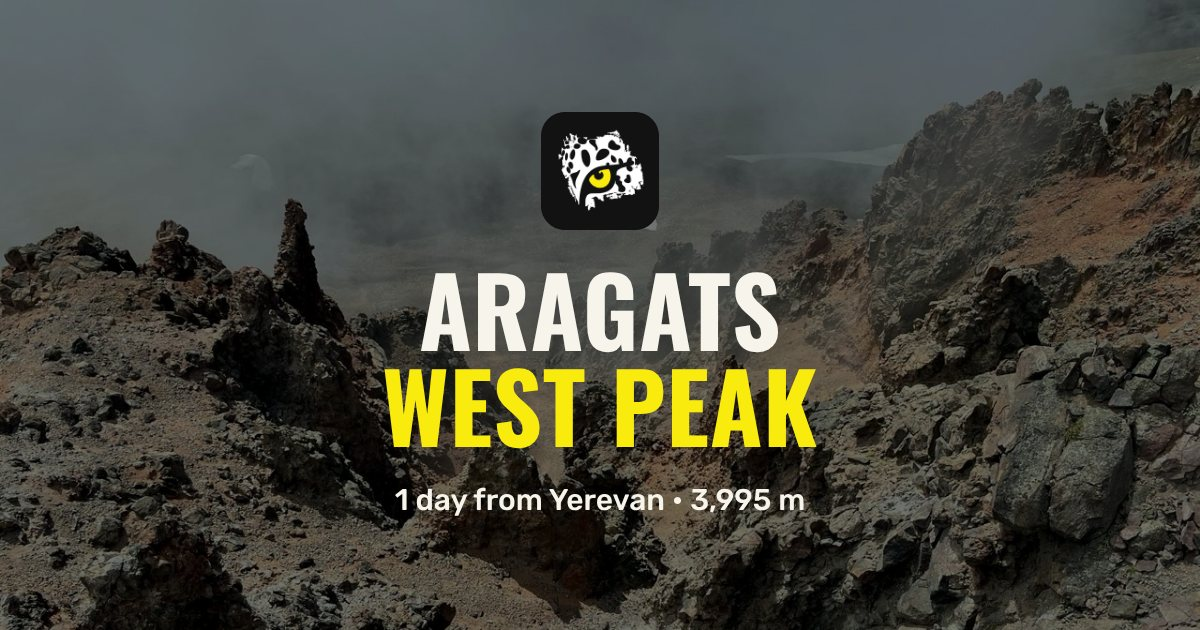
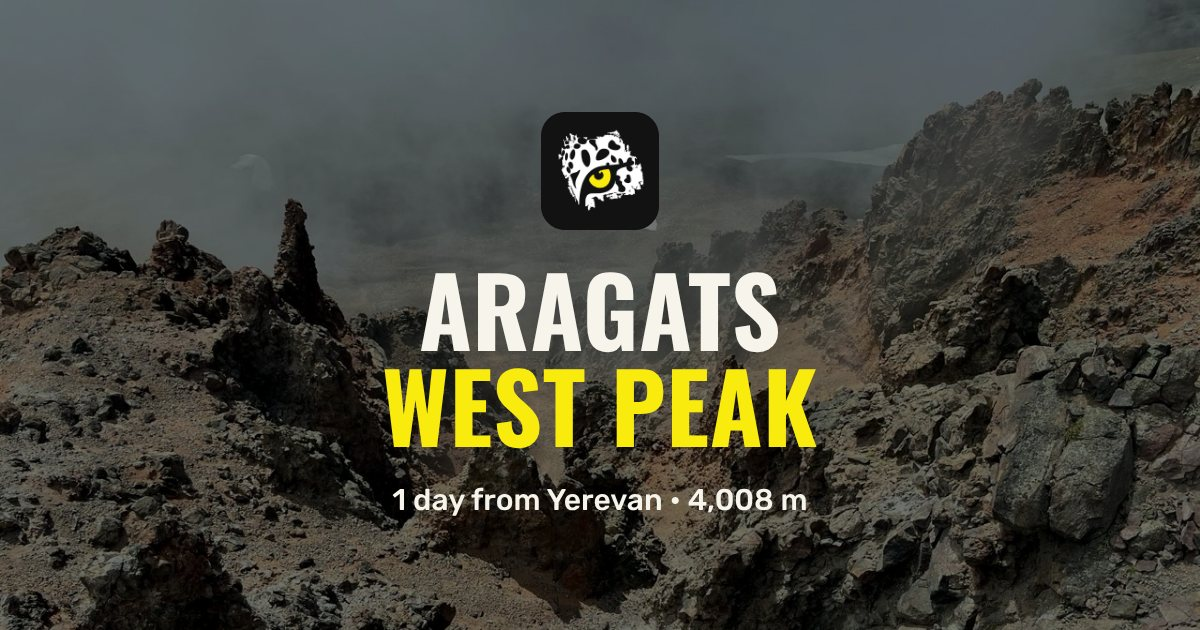
Арагац Западная: высота 4 008 м (как во всех материалах White Irbis), заголовки и карточки обновлены
Claude-Session: https://claude.ai/code/session_01UELaXKaEtKLHJMR8bpMREh

Changed region(s): [[0.3083, 0.7841, 0.6783, 0.8143]]

diff --git a/aragats-zapad/index.html b/aragats-zapad/index.html
@@ -7,7 +7,7 @@
 <meta property="og:type" content="website">
 <meta property="og:site_name" content="White Irbis">
 <meta property="og:title" content="Арагац, Западная вершина — White Irbis">
-<meta property="og:description" content="Почти четыре тысячи за один день: от озера Кари через седловину и крутую осыпь на Западную вершину 3 995 м.">
+<meta property="og:description" content="Четыре тысячи за один день: от озера Кари через седловину и крутую осыпь на Западную вершину 4 008 м.">
 <meta property="og:url" content="https://whiteirbis.am/aragats-zapad/">
 <meta property="og:image" content="https://whiteirbis.am/img/og-square.jpg">
 <meta property="og:image:width" content="1200">
@@ -18,7 +18,7 @@
 <link rel="apple-touch-icon" href="../dolmatur/img/apple-touch-icon.png">
 <meta name="apple-mobile-web-app-title" content="Арагац Западная">
 <meta name="theme-color" content="#121212">
-<meta name="description" content="Восхождение на Западную вершину Арагаца, 3 995 м — вторую по высоте в Армении. 1 день из Еревана, от озера Кари через седловину, на обратном пути крепость Амберд.">
+<meta name="description" content="Восхождение на Западную вершину Арагаца, 4 008 м — вторую по высоте в Армении. 1 день из Еревана, от озера Кари через седловину, на обратном пути крепость Амберд.">
 <link rel="preconnect" href="https://fonts.googleapis.com">
 <link rel="preconnect" href="https://fonts.gstatic.com" crossorigin>
 <link rel="stylesheet" href="https://fonts.googleapis.com/css2?family=Oswald:wght@300;400;500;600;700&family=Rubik:wght@400;500;600&family=Noto+Sans+Armenian:wdth,wght@62.5..100,400..700&display=swap">
@@ -221,13 +221,13 @@ details p{margin-top:10px;color:var(--muted);max-width:62ch}
   <div class="wrap">
     <span class="alt"><span lang="ru">Из Еревана · 1 день · июль — сентябрь</span><span lang="en">From Yerevan · 1 day · July — September</span><span lang="hy">Երևանից · 1 օր · հուլիս — սեպտեմբեր</span></span>
     <h1><span lang="ru">Арагац<br><em>Западная</em></span><span lang="en">Aragats<br><em>West</em></span><span lang="hy">Արագած<br><em>Արևմտյան</em></span></h1>
-    <p class="sub"><span lang="ru">3 995 метров — вторая по высоте вершина Армении. От озера Кари уходим к седловине между Южной и Западной, дальше крутой подъём по осыпи — и вершина, куда добираются немногие. По дороге домой — крепость Амберд.</span><span lang="en">3,995 metres — the second-highest summit in Armenia. From Lake Kari we head to the saddle between the South and West peaks, then a steep climb up the scree to a summit few people reach. On the way home — Amberd fortress.</span><span lang="hy">3 995 մետր՝ Հայաստանի երկրորդ ամենաբարձր գագաթը։ Քարի լճից գնում ենք դեպի Հարավային և Արևմտյան գագաթների միջև թամբը, հետո զառիթափ վերելք քարաթափով՝ դեպի գագաթ, որտեղ քչերն են հասնում։ Տուն վերադառնալիս՝ Ամբերդ ամրոցը։</span></p>
+    <p class="sub"><span lang="ru">4 008 метров — вторая по высоте вершина Армении. От озера Кари уходим к седловине между Южной и Западной, дальше крутой подъём по осыпи — и вершина, куда добираются немногие. По дороге домой — крепость Амберд.</span><span lang="en">4,008 metres — the second-highest summit in Armenia. From Lake Kari we head to the saddle between the South and West peaks, then a steep climb up the scree to a summit few people reach. On the way home — Amberd fortress.</span><span lang="hy">4 008 մետր՝ Հայաստանի երկրորդ ամենաբարձր գագաթը։ Քարի լճից գնում ենք դեպի Հարավային և Արևմտյան գագաթների միջև թամբը, հետո զառիթափ վերելք քարաթափով՝ դեպի գագաթ, որտեղ քչերն են հասնում։ Տուն վերադառնալիս՝ Ամբերդ ամրոցը։</span></p>
     <div class="row"><a class="cta" href="#price"><span lang="ru">Хочу на Западную</span><span lang="en">I want the West peak</span><span lang="hy">Ուզում եմ Արևմտյան</span></a><span class="price-chip"><span lang="ru">12 600 ₽</span><span lang="en">€137</span><span lang="hy">55 000 ֏</span><small lang="ru">с человека</small><small lang="en">per person</small><small lang="hy">մեկ անձի համար</small></span></div>
   </div>
 </section>
 
 <section class="facts"><div class="wrap"><dl>
-  <div><dt><span lang="ru">Вершина</span><span lang="en">Summit</span><span lang="hy">Գագաթ</span></dt><dd><span lang="ru">3 995 м</span><span lang="en">3,995 m</span><span lang="hy">3 995 մ</span></dd></div>
+  <div><dt><span lang="ru">Вершина</span><span lang="en">Summit</span><span lang="hy">Գագաթ</span></dt><dd><span lang="ru">4 008 м</span><span lang="en">4,008 m</span><span lang="hy">4 008 մ</span></dd></div>
   <div><dt><span lang="ru">Старт</span><span lang="en">Start</span><span lang="hy">Մեկնարկ</span></dt><dd><span lang="ru">Озеро Кари, 3 200 м</span><span lang="en">Lake Kari, 3,200 m</span><span lang="hy">Քարի լիճ, 3 200 մ</span></dd></div>
   <div><dt><span lang="ru">Сезон</span><span lang="en">Season</span><span lang="hy">Սեզոն</span></dt><dd><span lang="ru">Июль — сентябрь</span><span lang="en">July — September</span><span lang="hy">Հուլիս — սեպտեմբեր</span></dd></div>
   <div><dt><span lang="ru">Группа</span><span lang="en">Group</span><span lang="hy">Խումբ</span></dt><dd><span lang="ru">От 3 человек</span><span lang="en">3 or more</span><span lang="hy">3 հոգուց</span></dd></div>
@@ -235,7 +235,7 @@ details p{margin-top:10px;color:var(--muted);max-width:62ch}
 
 <section id="program"><div class="wrap">
   <span class="eyebrow"><span lang="ru">Программа</span><span lang="en">Programme</span><span lang="hy">Ծրագիր</span></span>
-  <h2 class="h2"><span lang="ru">Один день — без пяти метров четыре тысячи</span><span lang="en">One day — five metres short of four thousand</span><span lang="hy">Մեկ օր՝ չորս հազարից հինգ մետր պակաս</span></h2>
+  <h2 class="h2"><span lang="ru">Один день — четыре тысячи</span><span lang="en">One day — four thousand</span><span lang="hy">Մեկ օր՝ չորս հազար</span></h2>
   <p class="lead"><span lang="ru">Арагац — потухший вулкан и самая высокая гора современной Армении: четыре его вершины стоят по краю кратера. Западная — вторая по высоте и самая крутая на подходе: тропы почти нет, последний час идём по осыпи.</span><span lang="en">Aragats is an extinct volcano and the highest mountain of modern Armenia: its four peaks stand on the crater rim. The West peak is the second highest and the steepest to approach: there is hardly a trail, and the last hour is on scree.</span><span lang="hy">Արագածը հանգած հրաբուխ է և ժամանակակից Հայաստանի ամենաբարձր լեռը․ նրա չորս գագաթները կանգնած են խառնարանի եզրին։ Արևմտյանը բարձրությամբ երկրորդն է և ամենազառիթափը մոտեցման վրա․ արահետ գրեթե չկա, վերջին ժամը քարաթափով ենք գնում։</span></p>
   <div class="days">
     <article class="day">
@@ -262,7 +262,7 @@ details p{margin-top:10px;color:var(--muted);max-width:62ch}
         <ul class="plan">
           <li><b>4</b><span><span lang="ru">От озера Кари к седловине между Южной и Западной вершинами, около 3 800 м</span><span lang="en">From Lake Kari to the saddle between the South and West peaks, about 3,800 m</span><span lang="hy">Քարի լճից դեպի Հարավային և Արևմտյան գագաթների միջև թամբը՝ մոտ 3 800 մ</span></span></li>
           <li><b>5</b><span><span lang="ru">Крутой подъём по сыпучему склону без тропы — самый трудный кусок дня, идём плотной группой и смотрим под ноги</span><span lang="en">A steep climb up loose ground with no trail — the hardest part of the day; we keep the group tight and watch our step</span><span lang="hy">Զառիթափ վերելք փխրուն լանջով առանց արահետի՝ օրվա ամենադժվար հատվածը, գնում ենք սերտ խմբով և նայում ոտքերի տակ</span></span></li>
-          <li><b>6</b><span><span lang="ru">Вершина 3 995 м — примерно 4 часа от озера. Обед-ланчбокс, фото, под ногами весь кратер со снежниками</span><span lang="en">Summit, 3,995 m — about 4 hours from the lake. Lunch box, photos, the whole crater and its snowfields at your feet</span><span lang="hy">Գագաթ, 3 995 մ՝ լճից մոտ 4 ժամ։ Ճաշ-լանչբոքս, լուսանկարներ, ոտքերի տակ ամբողջ խառնարանը ձնադաշտերով</span></span></li>
+          <li><b>6</b><span><span lang="ru">Вершина 4 008 м — примерно 4 часа от озера. Обед-ланчбокс, фото, под ногами весь кратер со снежниками</span><span lang="en">Summit, 4,008 m — about 4 hours from the lake. Lunch box, photos, the whole crater and its snowfields at your feet</span><span lang="hy">Գագաթ, 4 008 մ՝ լճից մոտ 4 ժամ։ Ճաշ-լանչբոքս, լուսանկարներ, ոտքերի տակ ամբողջ խառնարանը ձնադաշտերով</span></span></li>
         </ul>
       </div>
     </article>
@@ -330,7 +330,7 @@ details p{margin-top:10px;color:var(--muted);max-width:62ch}
 
 <section id="who"><div class="wrap">
   <span class="eyebrow"><span lang="ru">Для кого</span><span lang="en">Who it's for</span><span lang="hy">Ում համար է</span></span>
-  <h2 class="h2"><span lang="ru">Почти четыре тысячи</span><span lang="en">Almost four thousand</span><span lang="hy">Գրեթե չորս հազար</span></h2>
+  <h2 class="h2"><span lang="ru">Четыре тысячи без толпы</span><span lang="en">Four thousand without the crowds</span><span lang="hy">Չորս հազար՝ առանց ամբոխի</span></h2>
   <div class="who">
     <div><h3><span lang="ru">Были на Южной</span><span lang="en">Done the South peak</span><span lang="hy">Եղել եք Հարավայինում</span></h3><p><span lang="ru">Западная — следующий шаг: выше, круче и почти без людей.</span><span lang="en">The West peak is the next step: higher, steeper and almost empty.</span><span lang="hy">Արևմտյանը հաջորդ քայլն է՝ ավելի բարձր, ավելի զառիթափ և գրեթե առանց մարդկանց։</span></p></div>
     <div><h3><span lang="ru">Любите дикие места</span><span lang="en">Love wild places</span><span lang="hy">Սիրում եք վայրի վայրեր</span></h3><p><span lang="ru">Без тропы и толп — только кратер, снежники и ветер.</span><span lang="en">No trail, no crowds — just the crater, the snowfields and the wind.</span><span lang="hy">Առանց արահետի և ամբոխի՝ միայն խառնարան, ձնադաշտեր և քամի։</span></p></div>
@@ -353,7 +353,7 @@ details p{margin-top:10px;color:var(--muted);max-width:62ch}
   <span class="eyebrow"><span lang="ru">Вопросы</span><span lang="en">Questions</span><span lang="hy">Հարցեր</span></span>
   <h2 class="h2"><span lang="ru">Частые вопросы</span><span lang="en">Frequently asked</span><span lang="hy">Հաճախ տրվող հարցեր</span></h2>
   <div class="faq-list">
-      <details open><summary><span lang="ru">Чем Западная отличается от Южной?</span><span lang="en">How is the West peak different from the South?</span><span lang="hy">Ինչով է Արևմտյանը տարբերվում Հարավայինից</span></summary><p><span lang="ru">Южная (3 879 м) — самый простой путь на Арагац, по широкому склону. Западная (3 995 м) выше на 116 м, и последний подъём к ней — крутая осыпь без тропы. Если вы впервые на высоте, начните с Южной.</span><span lang="en">The South peak (3,879 m) is the easiest way up Aragats, on a broad slope. The West peak (3,995 m) is 116 m higher, and the final climb is steep scree with no trail. If altitude is new to you, start with the South.</span><span lang="hy">Հարավայինը (3 879 մ) Արագածի ամենահեշտ ճանապարհն է՝ լայն լանջով։ Արևմտյանը (3 995 մ) 116 մ ավելի բարձր է, և վերջին վերելքը զառիթափ քարաթափ է առանց արահետի։ Եթե առաջին անգամ եք բարձրության վրա, սկսեք Հարավայինից։</span></p></details>
+      <details open><summary><span lang="ru">Чем Западная отличается от Южной?</span><span lang="en">How is the West peak different from the South?</span><span lang="hy">Ինչով է Արևմտյանը տարբերվում Հարավայինից</span></summary><p><span lang="ru">Южная (3 879 м) — самый простой путь на Арагац, по широкому склону. Западная (4 008 м) выше на 129 м, и последний подъём к ней — крутая осыпь без тропы. Если вы впервые на высоте, начните с Южной.</span><span lang="en">The South peak (3,879 m) is the easiest way up Aragats, on a broad slope. The West peak (4,008 m) is 129 m higher, and the final climb is steep scree with no trail. If altitude is new to you, start with the South.</span><span lang="hy">Հարավայինը (3 879 մ) Արագածի ամենահեշտ ճանապարհն է՝ լայն լանջով։ Արևմտյանը (4 008 մ) 129 մ ավելի բարձր է, և վերջին վերելքը զառիթափ քարաթափ է առանց արահետի։ Եթե առաջին անգամ եք բարձրության վրա, սկսեք Հարավայինից։</span></p></details>
       <details><summary><span lang="ru">Можно без опыта?</span><span lang="en">Can I go without experience?</span><span lang="hy">Կարելի՞ է առանց փորձի</span></summary><p><span lang="ru">Альпинистский опыт не нужен, но нужна выносливость. Если сомневаетесь, напишите нам — подскажем, с чего начать.</span><span lang="en">You don't need mountaineering experience, but you do need stamina. If in doubt, message us and we'll suggest where to start.</span><span lang="hy">Ալպինիստական փորձ պետք չէ, բայց պետք է տոկունություն։ Եթե կասկածում եք, գրեք մեզ՝ կառաջարկենք, թե որտեղից սկսել։</span></p></details>
       <details><summary><span lang="ru">Что если погода испортится?</span><span lang="en">What if the weather turns bad?</span><span lang="hy">Իսկ եթե եղանակը վատանա</span></summary><p><span lang="ru">Решение принимает гид. Если выход отменяем до старта, переносим на другую дату.</span><span lang="en">The guide makes the call. If we cancel before the start, we move you to another date.</span><span lang="hy">Որոշումը կայացնում է գիդը։ Եթե ելքը չեղարկում ենք մինչև մեկնարկը, տեղափոխում ենք այլ ամսաթվի։</span></p></details>
       <details><summary><span lang="ru">Когда лучше ехать?</span><span lang="en">When is the best time to go?</span><span lang="hy">Երբ է ավելի լավ գնալ</span></summary><p><span lang="ru">С июля по сентябрь. Дату выбираем вместе и подстраиваем под прогноз, чтобы наверху было ясно.</span><span lang="en">From July to September. We pick the date together and adjust it to the forecast so the summit is clear.</span><span lang="hy">Հուլիսից սեպտեմբեր։ Ամսաթիվը ընտրում ենք միասին և հարմարեցնում կանխատեսմանը, որպեսզի վերևում պարզ լինի։</span></p></details>

diff --git a/tools/newtours/aragats_sw_gen.py b/tools/newtours/aragats_sw_gen.py
@@ -117,21 +117,21 @@ PAGES = {
  'aragats-zapad': dict(
   slug='aragats-zapad', apptitle='Арагац Западная', fs=(120, 112, 70),
   title=tri('Арагац, Западная вершина — White Irbis', 'Aragats, West peak — White Irbis', 'Արագած, Արևմտյան գագաթ — White Irbis'),
-  desc='Восхождение на Западную вершину Арагаца, 3 995 м — вторую по высоте в Армении. 1 день из Еревана, от озера Кари через седловину, на обратном пути крепость Амберд.',
-  ogdesc='Почти четыре тысячи за один день: от озера Кари через седловину и крутую осыпь на Западную вершину 3 995 м.',
+  desc='Восхождение на Западную вершину Арагаца, 4 008 м — вторую по высоте в Армении. 1 день из Еревана, от озера Кари через седловину, на обратном пути крепость Амберд.',
+  ogdesc='Четыре тысячи за один день: от озера Кари через седловину и крутую осыпь на Западную вершину 4 008 м.',
   msg=tri('Здравствуйте! Хочу на Западную вершину Арагаца', 'Hi! I would like to climb the West peak of Aragats', 'Բարև Ձեզ։ Ուզում եմ բարձրանալ Արագածի Արևմտյան գագաթ'),
   T={
    'Из Еревана · 1 день · июнь — октябрь': tri('Из Еревана · 1 день · июль — сентябрь', 'From Yerevan · 1 day · July — September', 'Երևանից · 1 օր · հուլիս — սեպտեմբեր'),
    'Арагац<br><em>Северная</em>': tri('Арагац<br><em>Западная</em>', 'Aragats<br><em>West</em>', 'Արագած<br><em>Արևմտյան</em>'),
    '4 090 метров — выше в Армении только небо.': tri(
-     '3 995 метров — вторая по высоте вершина Армении. От озера Кари уходим к седловине между Южной и Западной, дальше крутой подъём по осыпи — и вершина, куда добираются немногие. По дороге домой — крепость Амберд.',
-     '3,995 metres — the second-highest summit in Armenia. From Lake Kari we head to the saddle between the South and West peaks, then a steep climb up the scree to a summit few people reach. On the way home — Amberd fortress.',
-     '3 995 մետր՝ Հայաստանի երկրորդ ամենաբարձր գագաթը։ Քարի լճից գնում ենք դեպի Հարավային և Արևմտյան գագաթների միջև թամբը, հետո զառիթափ վերելք քարաթափով՝ դեպի գագաթ, որտեղ քչերն են հասնում։ Տուն վերադառնալիս՝ Ամբերդ ամրոցը։'),
+     '4 008 метров — вторая по высоте вершина Армении. От озера Кари уходим к седловине между Южной и Западной, дальше крутой подъём по осыпи — и вершина, куда добираются немногие. По дороге домой — крепость Амберд.',
+     '4,008 metres — the second-highest summit in Armenia. From Lake Kari we head to the saddle between the South and West peaks, then a steep climb up the scree to a summit few people reach. On the way home — Amberd fortress.',
+     '4 008 մետր՝ Հայաստանի երկրորդ ամենաբարձր գագաթը։ Քարի լճից գնում ենք դեպի Հարավային և Արևմտյան գագաթների միջև թամբը, հետո զառիթափ վերելք քարաթափով՝ դեպի գագաթ, որտեղ քչերն են հասնում։ Տուն վերադառնալիս՝ Ամբերդ ամրոցը։'),
    'Хочу на вершину': tri('Хочу на Западную', 'I want the West peak', 'Ուզում եմ Արևմտյան'),
-   '4 090 м': tri('3 995 м', '3,995 m', '3 995 մ'),
+   '4 090 м': tri('4 008 м', '4,008 m', '4 008 մ'),
    'Сезон': tri('Сезон', 'Season', 'Սեզոն'),
    'Июнь — октябрь': tri('Июль — сентябрь', 'July — September', 'Հուլիս — սեպտեմբեր'),
-   'Один день — четыре тысячи': tri('Один день — без пяти метров четыре тысячи', 'One day — five metres short of four thousand', 'Մեկ օր՝ չորս հազարից հինգ մետր պակաս'),
+   'Один день — четыре тысячи': tri('Один день — четыре тысячи', 'One day — four thousand', 'Մեկ օր՝ չորս հազար'),
    'Арагац — огромный потухший вулкан': tri(
      'Арагац — потухший вулкан и самая высокая гора современной Армении: четыре его вершины стоят по краю кратера. Западная — вторая по высоте и самая крутая на подходе: тропы почти нет, последний час идём по осыпи.',
      'Aragats is an extinct volcano and the highest mountain of modern Armenia: its four peaks stand on the crater rim. The West peak is the second highest and the steepest to approach: there is hardly a trail, and the last hour is on scree.',
@@ -146,9 +146,9 @@ PAGES = {
      'A steep climb up loose ground with no trail — the hardest part of the day; we keep the group tight and watch our step',
      'Զառիթափ վերելք փխրուն լանջով առանց արահետի՝ օրվա ամենադժվար հատվածը, գնում ենք սերտ խմբով և նայում ոտքերի տակ'),
    'Вершина 4 090 м.': tri(
-     'Вершина 3 995 м — примерно 4 часа от озера. Обед-ланчбокс, фото, под ногами весь кратер со снежниками',
-     'Summit, 3,995 m — about 4 hours from the lake. Lunch box, photos, the whole crater and its snowfields at your feet',
-     'Գագաթ, 3 995 մ՝ լճից մոտ 4 ժամ։ Ճաշ-լանչբոքս, լուսանկարներ, ոտքերի տակ ամբողջ խառնարանը ձնադաշտերով'),
+     'Вершина 4 008 м — примерно 4 часа от озера. Обед-ланчбокс, фото, под ногами весь кратер со снежниками',
+     'Summit, 4,008 m — about 4 hours from the lake. Lunch box, photos, the whole crater and its snowfields at your feet',
+     'Գագաթ, 4 008 մ՝ լճից մոտ 4 ժամ։ Ճաշ-լանչբոքս, լուսանկարներ, ոտքերի տակ ամբողջ խառնարանը ձնադաշտերով'),
    'Спуск тем же путём к водопаду': tri(
      'Спуск на седловину и к озеру Кари — около 2 часов', 'Descent to the saddle and down to Lake Kari — about 2 hours', 'Վայրէջք թամբ և Քարի լիճ՝ մոտ 2 ժամ'),
    'Джип спускает в село Арагац': tri(
@@ -177,7 +177,7 @@ PAGES = {
      'Под вершиной крутой сыпучий склон, возможны падающие камни. Идём плотно, в касках по решению гида.',
      'Below the summit is a steep, loose slope with possible rockfall. We keep together; helmets if the guide decides so.',
      'Գագաթի տակ զառիթափ փխրուն լանջ է, հնարավոր են քարաթափեր։ Գնում ենք սերտ, սաղավարտներով՝ գիդի որոշմամբ։'),
-   'Первая четырёхтысячная': tri('Почти четыре тысячи', 'Almost four thousand', 'Գրեթե չորս հազար'),
+   'Первая четырёхтысячная': tri('Четыре тысячи без толпы', 'Four thousand without the crowds', 'Չորս հազար՝ առանց ամբոխի'),
    'Хотите на крышу Армении': tri('Были на Южной', 'Done the South peak', 'Եղել եք Հարավայինում'),
    'Северная — высшая точка страны': tri(
      'Западная — следующий шаг: выше, круче и почти без людей.',
@@ -190,9 +190,9 @@ PAGES = {
      'Առանց արահետի և ամբոխի՝ միայն խառնարան, ձնադաշտեր և քամի։'),
    'Чем Северная отличается от Южной?': tri('Чем Западная отличается от Южной?', 'How is the West peak different from the South?', 'Ինչով է Արևմտյանը տարբերվում Հարավայինից'),
    'Южная (3 879 м) — самый простой путь на Арагац.': tri(
-     'Южная (3 879 м) — самый простой путь на Арагац, по широкому склону. Западная (3 995 м) выше на 116 м, и последний подъём к ней — крутая осыпь без тропы. Если вы впервые на высоте, начните с Южной.',
-     'The South peak (3,879 m) is the easiest way up Aragats, on a broad slope. The West peak (3,995 m) is 116 m higher, and the final climb is steep scree with no trail. If altitude is new to you, start with the South.',
-     'Հարավայինը (3 879 մ) Արագածի ամենահեշտ ճանապարհն է՝ լայն լանջով։ Արևմտյանը (3 995 մ) 116 մ ավելի բարձր է, և վերջին վերելքը զառիթափ քարաթափ է առանց արահետի։ Եթե առաջին անգամ եք բարձրության վրա, սկսեք Հարավայինից։'),
+     'Южная (3 879 м) — самый простой путь на Арагац, по широкому склону. Западная (4 008 м) выше на 129 м, и последний подъём к ней — крутая осыпь без тропы. Если вы впервые на высоте, начните с Южной.',
+     'The South peak (3,879 m) is the easiest way up Aragats, on a broad slope. The West peak (4,008 m) is 129 m higher, and the final climb is steep scree with no trail. If altitude is new to you, start with the South.',
+     'Հարավայինը (3 879 մ) Արագածի ամենահեշտ ճանապարհն է՝ լայն լանջով։ Արևմտյանը (4 008 մ) 129 մ ավելի բարձր է, և վերջին վերելքը զառիթափ քարաթափ է առանց արահետի։ Եթե առաջին անգամ եք բարձրության վրա, սկսեք Հարավայինից։'),
    'С июня по октябрь. Дату выбираем': tri(
      'С июля по сентябрь. Дату выбираем вместе и подстраиваем под прогноз, чтобы наверху было ясно.',
      'From July to September. We pick the date together and adjust it to the forecast so the summit is clear.',
